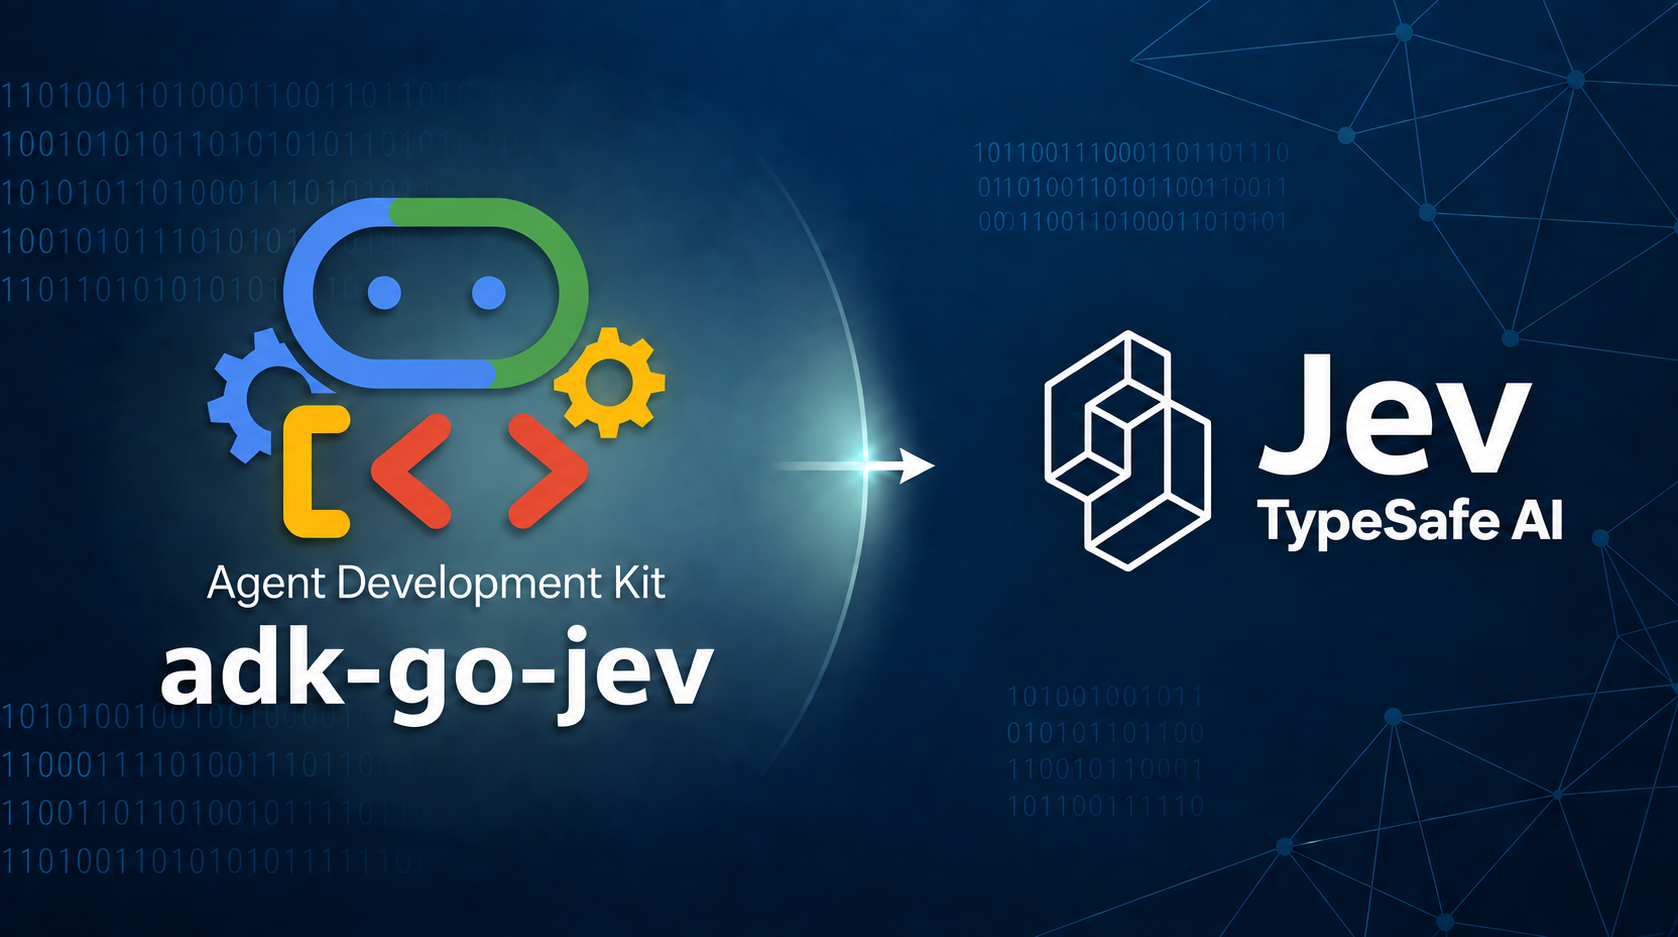
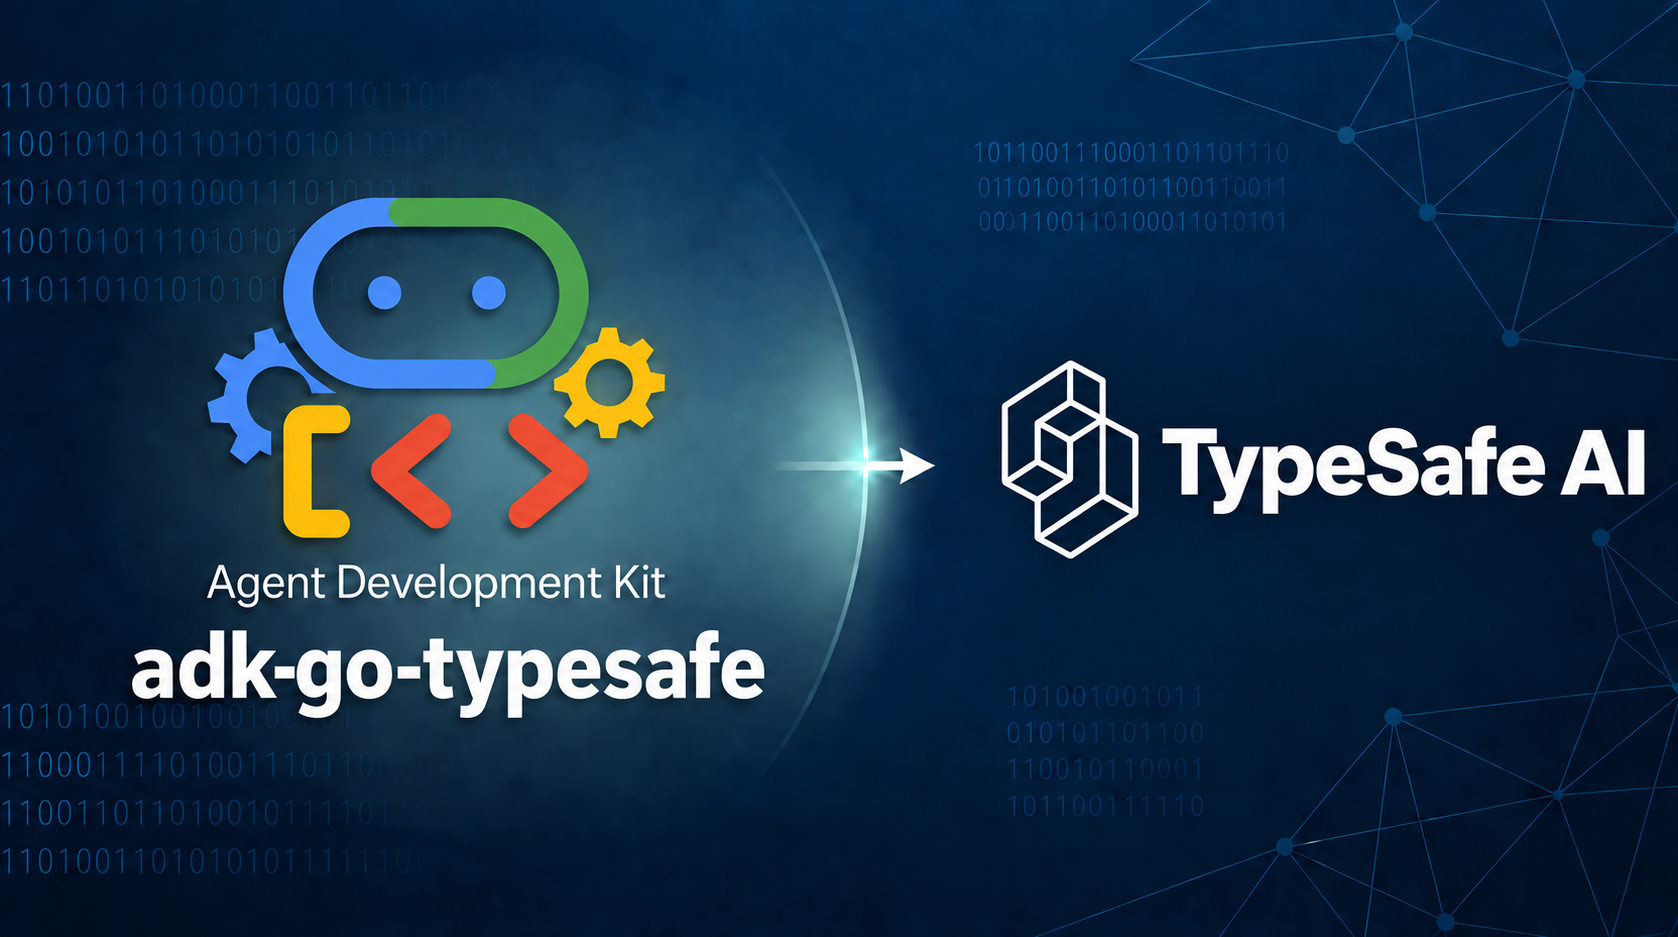
refactor: rename integration to adk-go-typesafe (#2)

diff --git a/internal/mappers/doc.go b/internal/mappers/doc.go
@@ -1,2 +1,2 @@
-// Package mappers is reserved for Jev request and response conversions.
+// Package mappers is reserved for TypeSafe request and response conversions.
 package mappers

diff --git a/tools/systemone/doc.go b/tools/systemone/doc.go
@@ -1,0 +1,2 @@
+// Package systemone is reserved for TypeSafe System One tools for the Agent Development Kit.
+package systemone

diff --git a/typesafe/doc.go b/typesafe/doc.go
@@ -1,0 +1,2 @@
+// Package typesafe is reserved for the TypeSafe API client.
+package typesafe

diff --git a/README.md b/README.md
@@ -1,29 +1,29 @@
 <p align="center">
   <img
     src="docs/images/readme-header.png"
-    alt="adk-go-jev banner showing Agent Development Kit connected to Jev by TypeSafe AI"
+    alt="adk-go-typesafe banner showing Agent Development Kit connected to TypeSafe AI"
     width="100%"
   />
 </p>
 
-# adk-go-jev
+# adk-go-typesafe
 
-[Jev](https://typesafe.ai/blog/introducing-system-one-models-and-jev) decision-model integration for [adk-go](https://github.com/google/adk-go), bringing TypeSafe AI's Choice, Score, and Noul primitives to Go agents and workflows.
+[TypeSafe AI](https://typesafe.ai/) System One integration for [adk-go](https://github.com/google/adk-go), bringing Choice, Score, and Noul primitives to Go agents and workflows with models such as [Jev](https://typesafe.ai/blog/introducing-system-one-models-and-jev).
 
-**Status:** Repository bootstrap only. The Jev client, ADK integration, and runnable examples are not implemented yet.
+**Status:** Repository bootstrap only. The TypeSafe client, ADK integration, and runnable examples are not implemented yet.
 
 **Other providers:** [adk-go-bedrock](https://github.com/craigh33/adk-go-bedrock) · [adk-go-ollama](https://github.com/craigh33/adk-go-ollama) · [adk-go-kronk](https://github.com/craigh33/adk-go-kronk)
 
 ## Requirements
 
 - **Go**: match [`go.mod`](go.mod).
-- Live Jev examples will require a **TypeSafe API key** (`TYPESAFE_API_KEY`); see the [TypeSafe quick start](https://docs.typesafe.ai/introduction/quickstart).
+- Live examples will require a **TypeSafe API key** (`TYPESAFE_API_KEY`); see the [TypeSafe quick start](https://docs.typesafe.ai/introduction/quickstart).
 
 ## Development
 
 ```bash
-git clone https://github.com/craigh33/adk-go-jev.git
-cd adk-go-jev
+git clone https://github.com/craigh33/adk-go-typesafe.git
+cd adk-go-typesafe
 git switch -c feat/your-change
 make pre-commit-install
 make test lint build
@@ -33,8 +33,8 @@ See [CONTRIBUTING.md](CONTRIBUTING.md) for development tools and contribution gu
 
 ## Repository layout
 
-- [`jev`](jev): Jev decision-model integration.
-- [`tools/jev`](tools/jev): ADK tools.
+- [`typesafe`](typesafe): TypeSafe API client.
+- [`tools/systemone`](tools/systemone): ADK tools for System One evaluations.
 - [`internal/mappers`](internal/mappers): request and response conversions.
 - [`examples`](examples): runnable examples as the integration is implemented.
 
@@ -48,10 +48,10 @@ This is an independent community integration, not an official TypeSafe AI or Goo
 
 ## Contributing
 
-See [CONTRIBUTING.md](CONTRIBUTING.md) for Makefile targets, required pre-commit setup, commit message conventions, and pull request guidelines. For new issues, use the [bug report](https://github.com/craigh33/adk-go-jev/issues/new?template=bug_report.yml) or [feature request](https://github.com/craigh33/adk-go-jev/issues/new?template=feature_request.yml) templates.
+See [CONTRIBUTING.md](CONTRIBUTING.md) for Makefile targets, required pre-commit setup, commit message conventions, and pull request guidelines. For new issues, use the [bug report](https://github.com/craigh33/adk-go-typesafe/issues/new?template=bug_report.yml) or [feature request](https://github.com/craigh33/adk-go-typesafe/issues/new?template=feature_request.yml) templates.
 
 ## License
 
 Apache 2.0 — see [LICENSE](LICENSE).
 
-[Contributing](CONTRIBUTING.md) · [Issues](https://github.com/craigh33/adk-go-jev/issues) · [Security](https://github.com/craigh33/adk-go-jev/security)
+[Contributing](CONTRIBUTING.md) · [Issues](https://github.com/craigh33/adk-go-typesafe/issues) · [Security](https://github.com/craigh33/adk-go-typesafe/security)

diff --git a/CONTRIBUTING.md b/CONTRIBUTING.md
@@ -5,7 +5,7 @@ Thank you for investing time in this project. Contributions are welcome through 
 ## Before you start
 
 - Review [README.md](README.md) for scope, requirements, and usage.
-- Search [existing issues](https://github.com/craigh33/adk-go-jev/issues) and pull requests for duplicates.
+- Search [existing issues](https://github.com/craigh33/adk-go-typesafe/issues) and pull requests for duplicates.
 - Prefer small, focused changes—one logical concern per PR keeps review straightforward.
 
 ## Development setup
@@ -82,7 +82,7 @@ If a hook fails, fix or auto-fix, then commit again.
 
 ## Security
 
-If you find a security vulnerability, please **do not** open a public issue. Use [GitHub Security Advisories](https://github.com/craigh33/adk-go-jev/security/advisories) for this repository if available, or contact the maintainers privately with enough detail to reproduce and assess impact.
+If you find a security vulnerability, please **do not** open a public issue. Use [GitHub Security Advisories](https://github.com/craigh33/adk-go-typesafe/security/advisories) for this repository if available, or contact the maintainers privately with enough detail to reproduce and assess impact.
 
 ## Code of conduct
 

diff --git a/examples/README.md b/examples/README.md
@@ -1,3 +1,3 @@
 # Examples
 
-Runnable examples will be added with the Jev integration. Each example will have its own `README.md` and `Makefile`.
+Runnable examples will be added with the TypeSafe integration. Each example will have its own `README.md` and `Makefile`.
